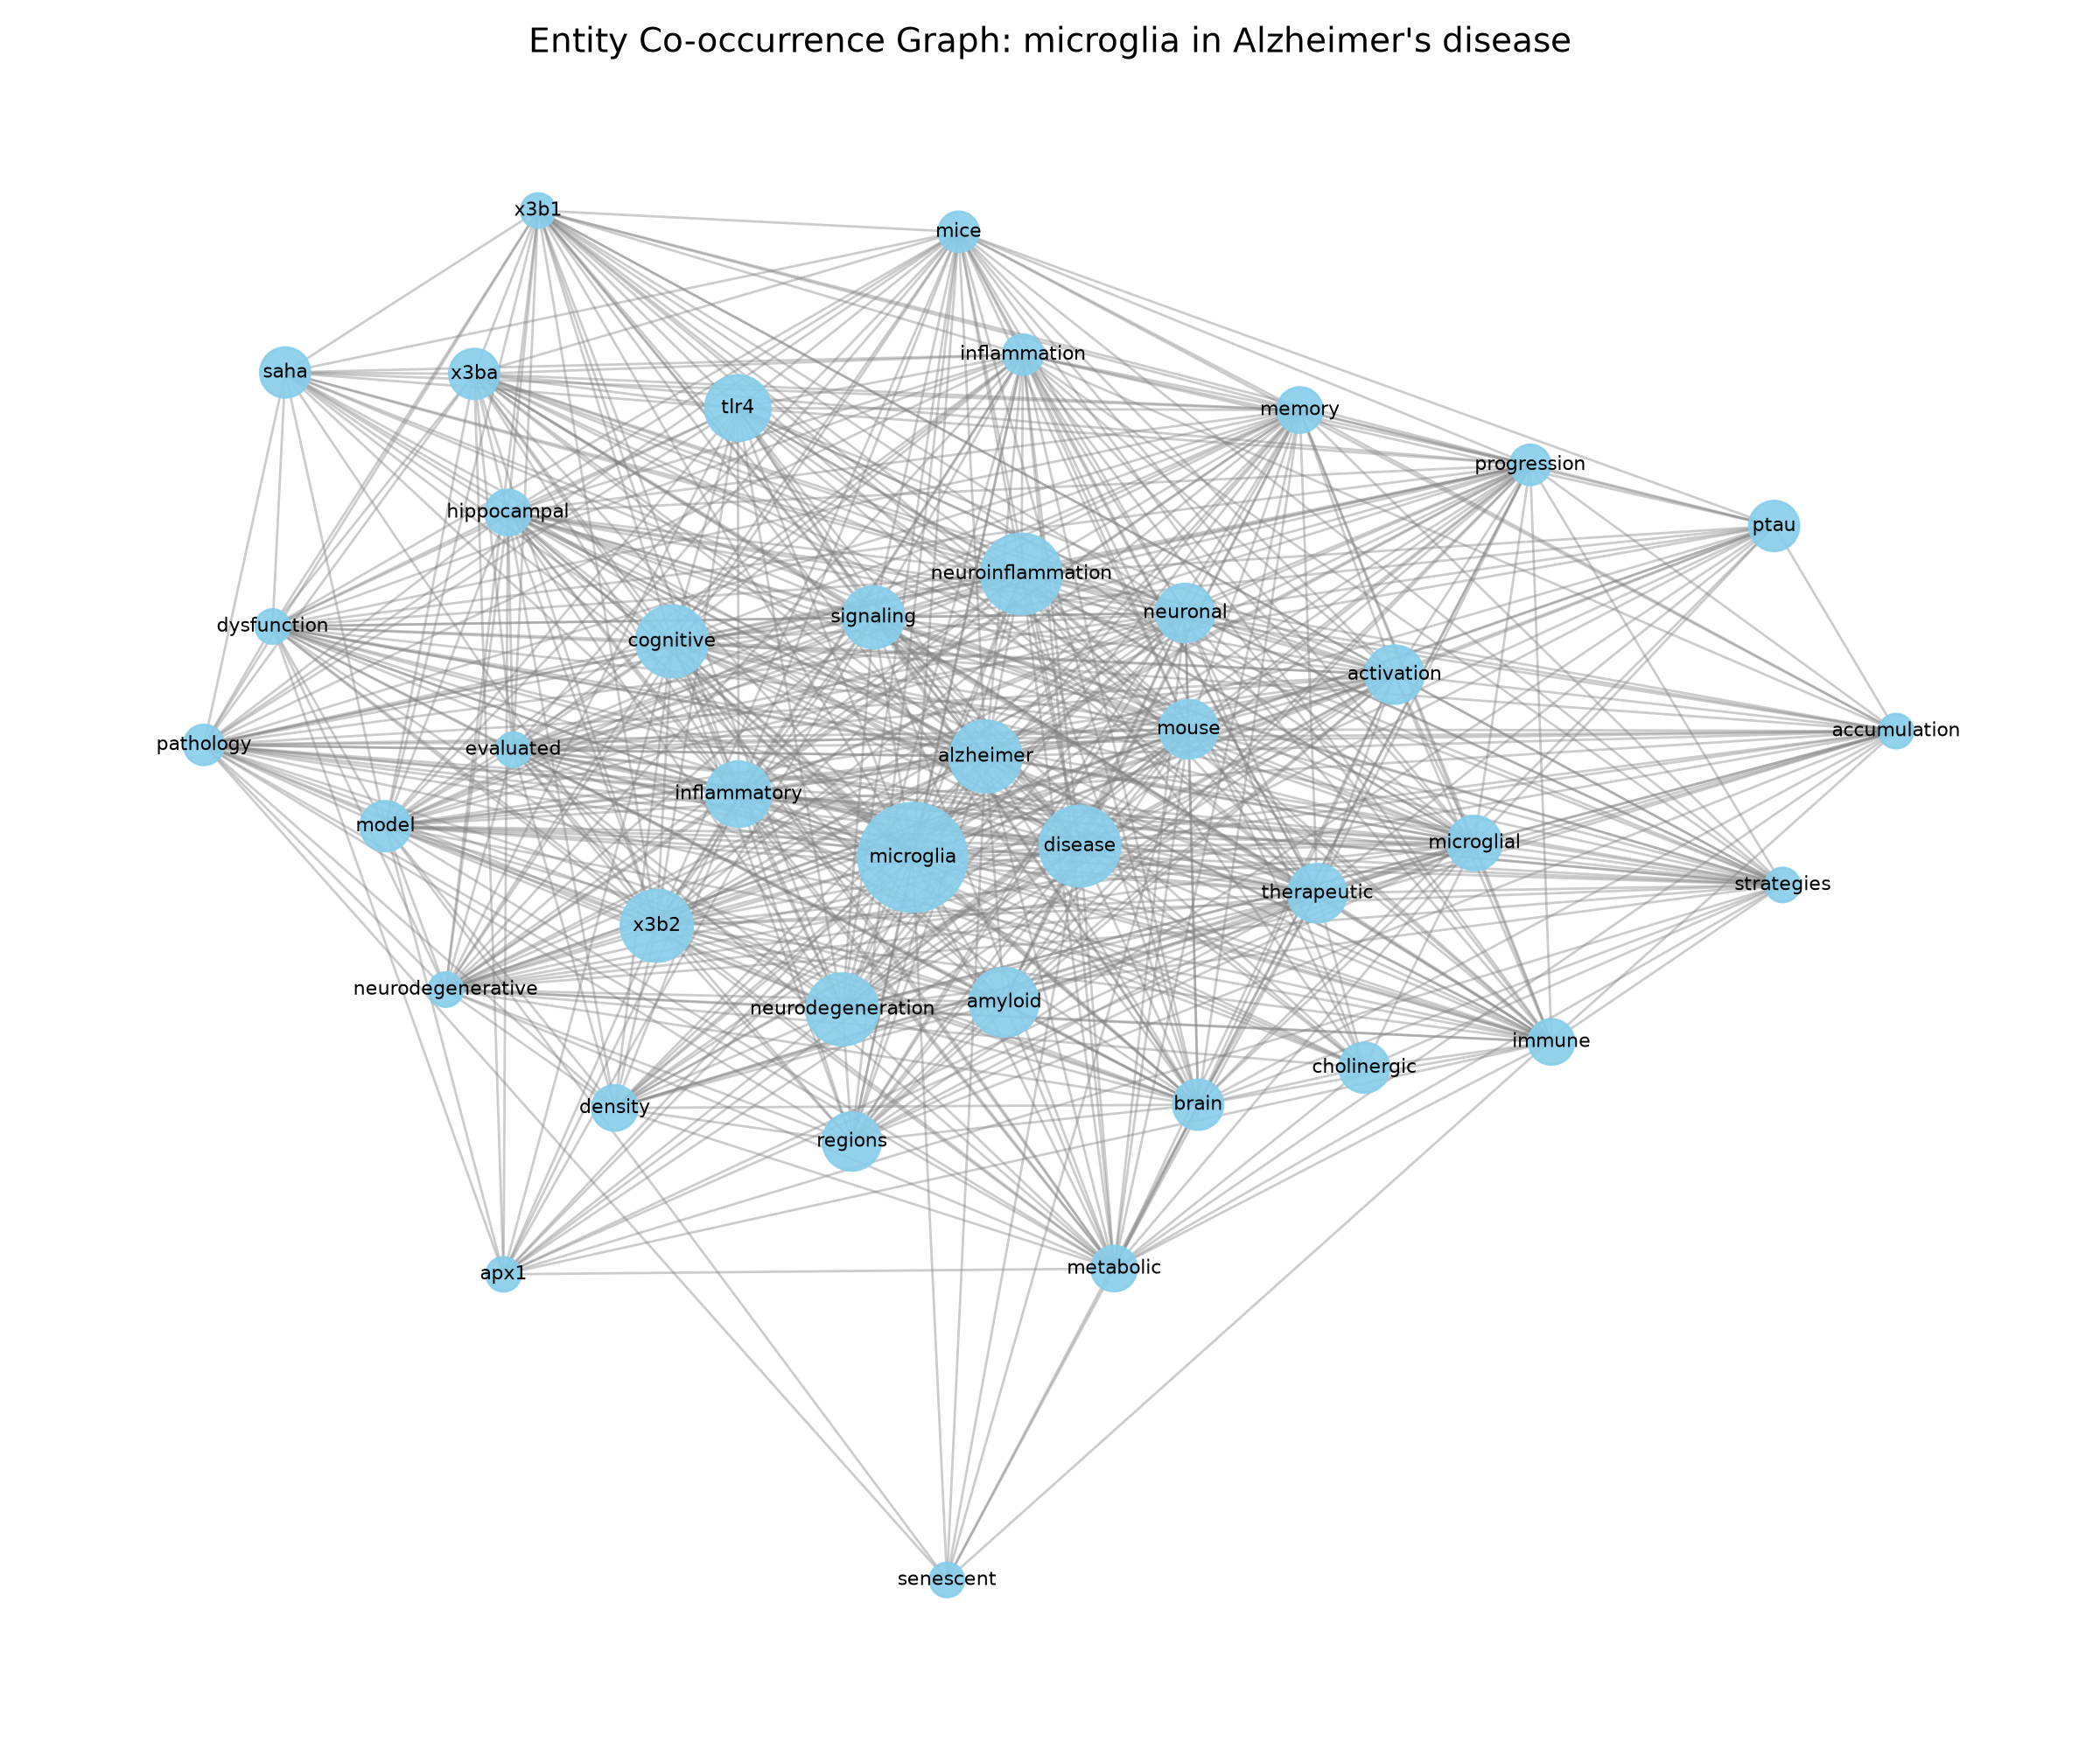
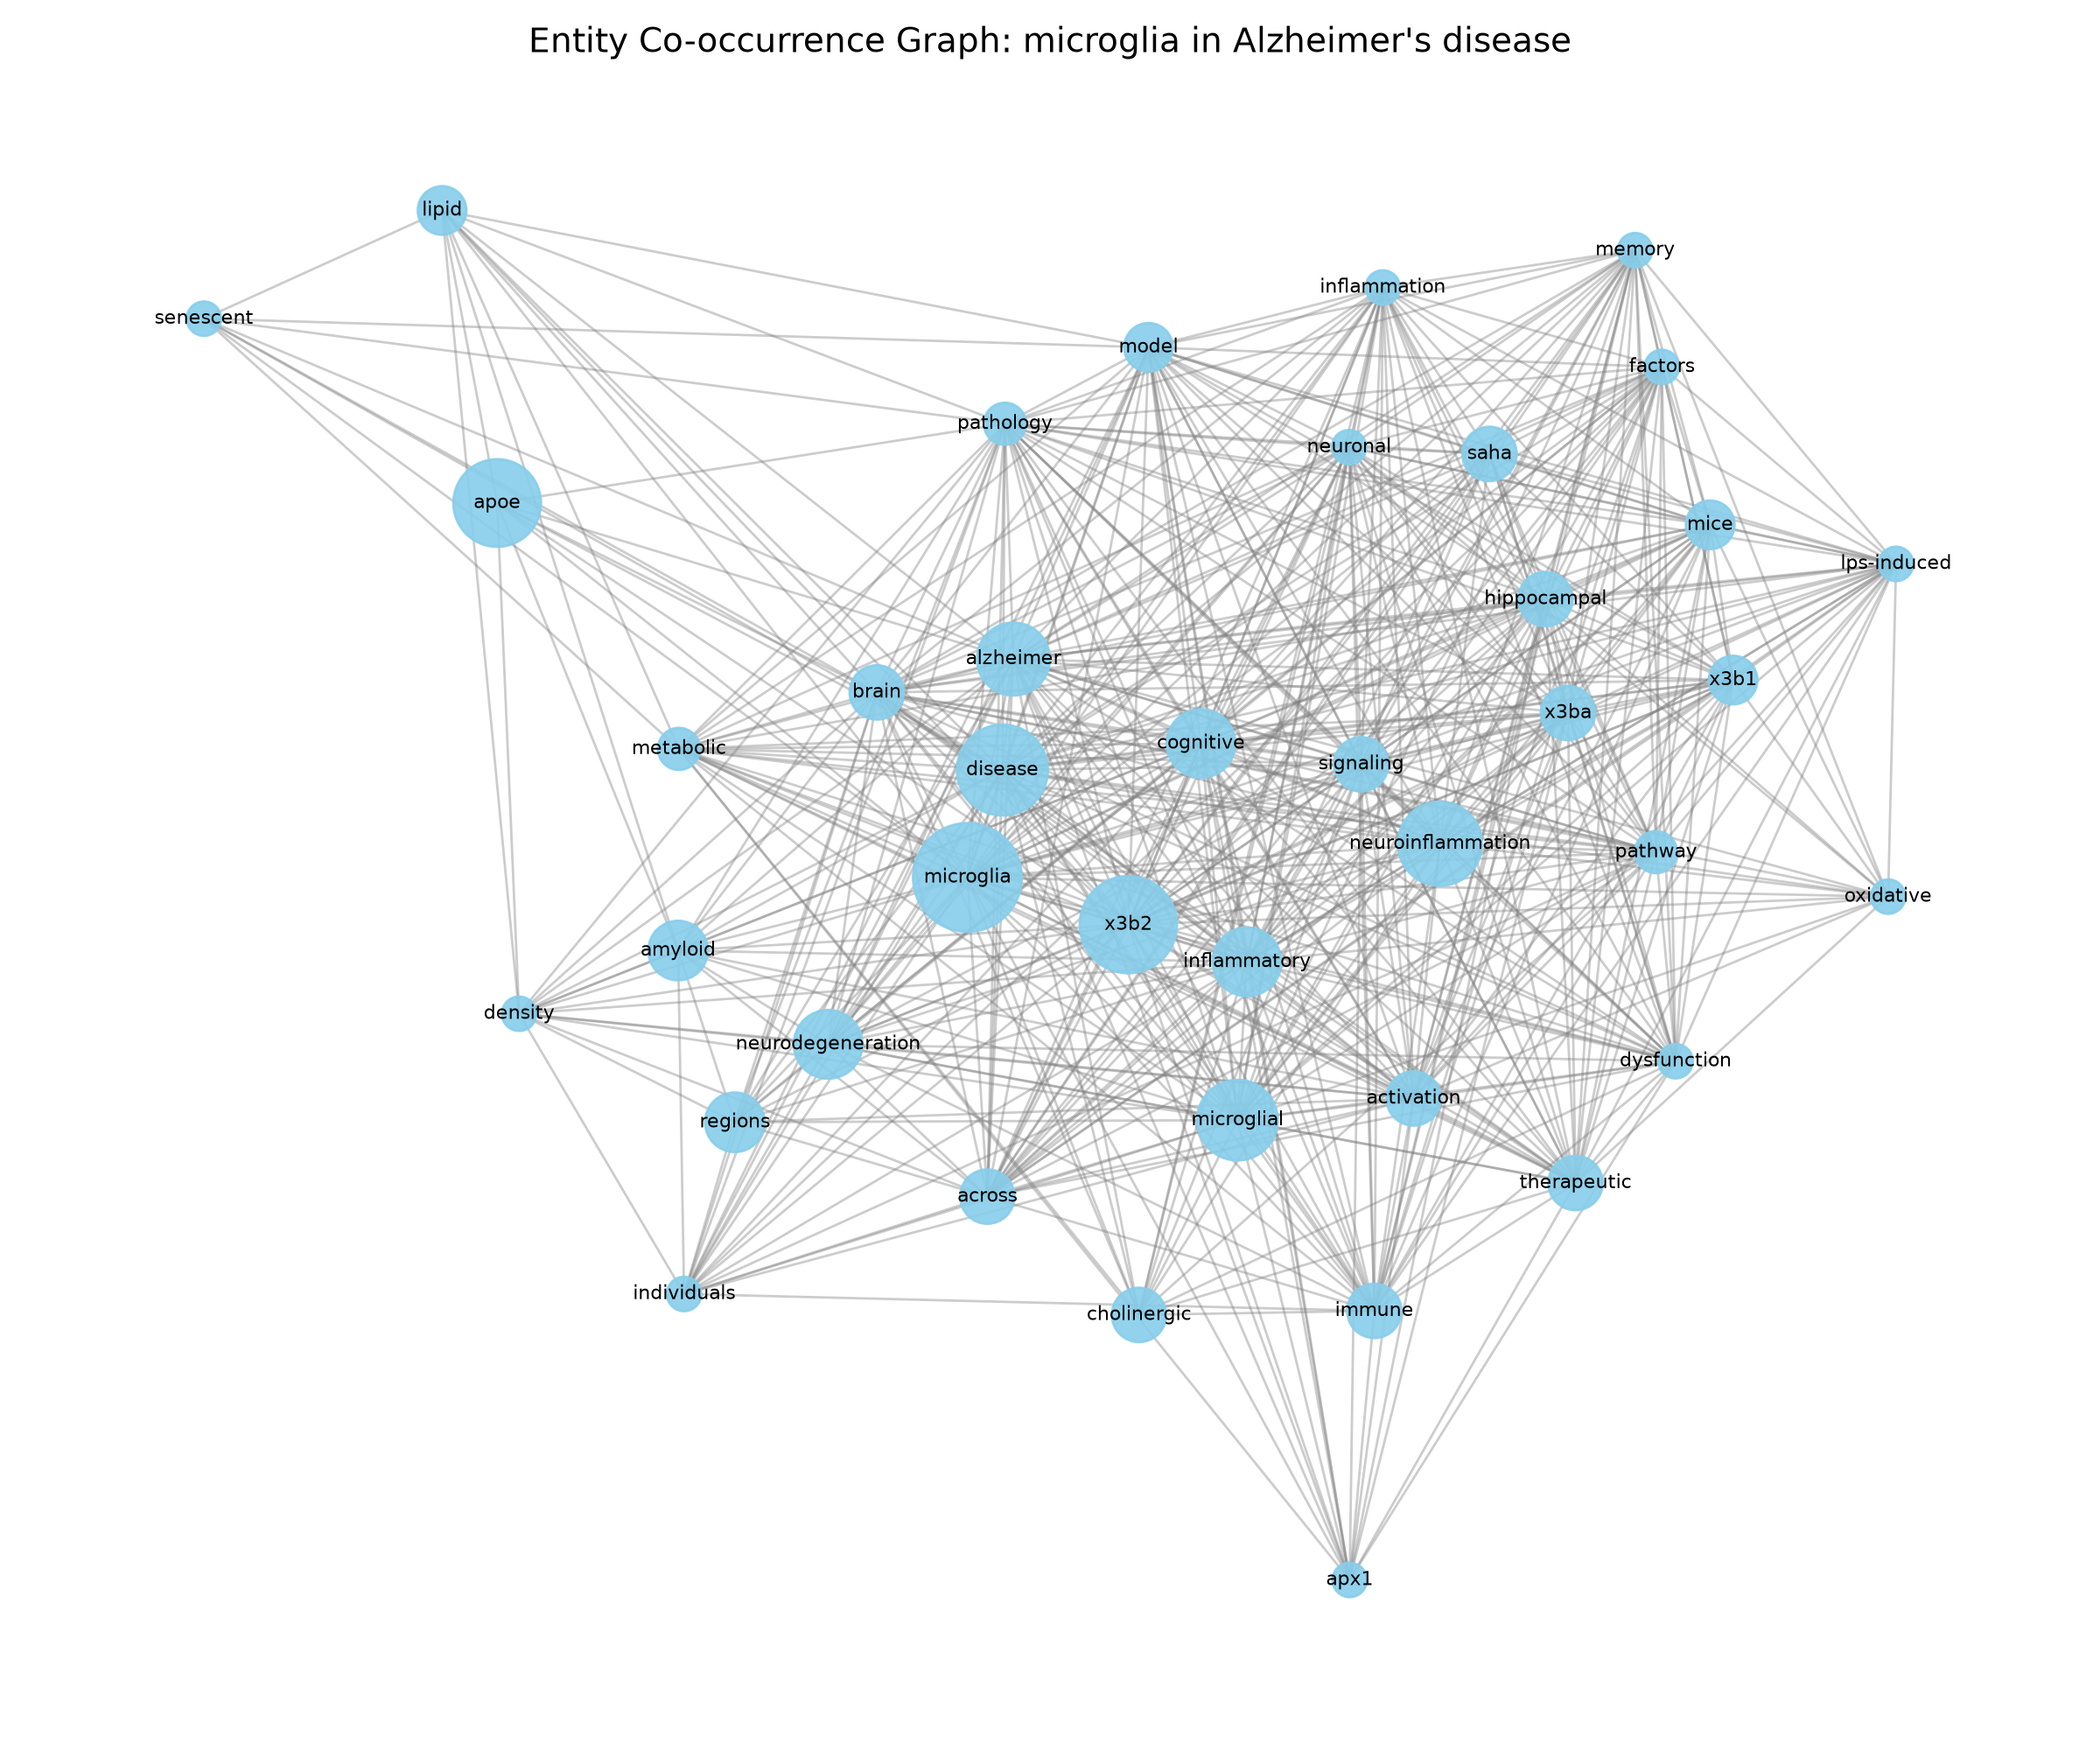
chore(release): v1.1.0 收口 — 版本统一 + 诚实化 RELEASE_NOTES/CHECKLIST
- 版本号全仓统一为 1.1.0（修复 setup.py/pyproject 残留 0.1.0；manifest + 4 证据包 + README 徽章同步）。
- RELEASE_NOTES.md 重写：删除 arXiv 不实声称（paper submitted / link coming）与 4-conceptual roadmap；新增 Agent Router v0、Validation Suite 诚实 B/C 分级、9 skills、FDR/auto-log2；补 1 行 v1.5 诚实路线图。
- RELEASE_CHECKLIST.md：cs.AI(primary)→cs.SE(primary)+q-bio.QM/GN（本账号须 human endorser）；arXiv done-criteria 改为 bioRxiv 优先；tag 行 v1.0→v1.1.0。
- 重跑 4 case 验证 v1.1.0 下确定性可复现（Case1 真实 GEO dopamine min_p=0.000159；Case2/4 sweep 1.00/1.00/1.00；Case3 真实 PubMed grade B）。

Changed region(s): [[0.0625, 0.093, 0.9375, 0.93], [0.4375, 0.775, 0.4688, 0.93]]

diff --git a/bio-research-os/eval/case_study_ad_literature.py b/bio-research-os/eval/case_study_ad_literature.py
@@ -197,7 +197,7 @@ def main():
             "workflow": "literature-analysis",
             "topic": args.topic,
             "date": "2026-07-08",
-            "agent_version": "bioresearch-agent v1.0.0 + case-study-ad-literature",
+            "agent_version": "bioresearch-agent v1.1.0 + case-study-ad-literature",
             "mode": data_mode,
         },
         "provenance": {

diff --git a/bio-research-os/eval/case_study_ad_mr.py b/bio-research-os/eval/case_study_ad_mr.py
@@ -268,7 +268,7 @@ def main():
             "workflow": "causal-inference",
             "exposure": EXPOSURE, "outcome": OUTCOME,
             "date": "2026-07-08",
-            "agent_version": "bioresearch-agent v1.0.0 + case-study-ad-mr",
+            "agent_version": "bioresearch-agent v1.1.0 + case-study-ad-mr",
             "mode": "synthetic GWAS (ground-truth known by construction)",
         },
         "provenance": {

diff --git a/bio-research-os/eval/case_study_mr_exemplar.py b/bio-research-os/eval/case_study_mr_exemplar.py
@@ -220,7 +220,7 @@ def main():
             "exposure": EXPOSURE,
             "outcome": OUTCOME,
             "date": "2026-07-08",
-            "agent_version": "bioresearch-agent v1.0.0 + case-study-mr-exemplar",
+            "agent_version": "bioresearch-agent v1.1.0 + case-study-mr-exemplar",
             "mode": "synthetic GWAS (ground-truth known by construction)",
         },
         "provenance": {

diff --git a/bio-research-os/eval/case_study_pd.py b/bio-research-os/eval/case_study_pd.py
@@ -299,7 +299,7 @@ def main():
             "dataset": f"GEO:{GEO_ID}",
             "platform": PLATFORM,
             "date": "2026-07-08",
-            "agent_version": "bioresearch-agent v1.0.0 + case-study-pd",
+            "agent_version": "bioresearch-agent v1.1.0 + case-study-pd",
             "mode": data_mode,
         },
         "provenance": {

diff --git a/setup.py b/setup.py
@@ -2,7 +2,7 @@ from setuptools import setup, find_packages
 
 setup(
     name="bioresearch-agent",
-    version="0.1.0",
+    version="1.1.0",
     description="An open-source, reproducible workflow framework for structured biomedical research",
     long_description=open("README.md").read(),
     long_description_content_type="text/markdown",

diff --git a/RELEASE_NOTES.md b/RELEASE_NOTES.md
@@ -1,6 +1,6 @@
-## BioResearch Agent v1.0.0
+## BioResearch Agent v1.1.0
 
-**One command. Three workflows. Zero API keys.**
+**One framework. Executable workflows. Zero API keys.**
 
 ```bash
 git clone https://github.com/Alim430/bioresearch-agent.git
@@ -12,28 +12,42 @@ cd bioresearch-agent
 
 ### What is it?
 
-A **runnable, reproducible workflow framework** for biomedical research. Not a text generator. Not a chat wrapper. An actual pipeline that downloads data, runs statistics, and produces figures.
+A **runnable, reproducible workflow framework** for biomedical research. Not a text generator. Not a chat wrapper. An actual pipeline that downloads public data, runs real statistics, and produces figures — wired for AI assistants to invoke through a standardized skill interface.
 
-### Three workflows, all included
+### Workflows, all included
 
 | Workflow | One-liner | What you get |
 |:---|:---|:---|
 | **Literature** | `bioresearch run literature --query "microglia Alzheimer's disease"` | PubMed retrieval → knowledge graph → gap report |
 | **Biomarker** | `bioresearch run biomarker --disease "Parkinson's disease"` | GEO analysis → DEG table → volcano plot |
-| **Causal** | `bioresearch run causal --exposure BMI --outcome "Type 2 Diabetes"` | MR estimation → scatter/funnel plots |
+| **Causal** | `bioresearch run causal --exposure BMI --outcome "Type 2 Diabetes"` | MR estimation (IVW) → scatter/funnel plots |
+| **Case study** | `python bio-research-os/eval/case_study_pd.py` | End-to-end validated case with Evidence Package |
 
-All three run **without an LLM API key**. Public data + synthetic fallbacks.
+All run **without an LLM API key**. Public data + synthetic fallbacks.
 
 ### Why it's different
 
 Most "AI for science" projects generate text summaries. This one **runs the actual analysis**:
 
-- Downloads GEO datasets
-- Runs differential expression (t-test + Bonferroni)
-- Performs Mendelian randomization (IVW)
+- Downloads real GEO datasets (e.g., GSE7621, postmortem substantia nigra)
+- Runs differential expression (t-test + Benjamini–Hochberg FDR)
+- Performs Mendelian randomization (IVW + leave-one-out)
 - Produces publication-quality figures
 
-And it's **fully reproducible**: fixed seeds, CI-tested on Python 3.9–3.12, deterministic outputs.
+And it's **fully reproducible**: fixed seeds, deterministic outputs, and a per-case Evidence Package (provenance + benchmark + honest evidence grade).
+
+### Honest evidence grading
+
+Every validation case carries an evidence grade:
+
+- **B — real public data**: GSE7621 Parkinson's biomarker discovery (real GEO), and the AD literature case (real PubMed queries when reachable).
+- **C — synthetic / offline methodology**: the MR cases use a *real IVW engine* on synthetic GWAS with known ground truth, to validate the computation (not a real etiological claim). Offline literature mode falls back to a built-in corpus. Both clearly flag `next_validation` pointing to real GWAS (IGAP/GLGC) and real bibliographic APIs.
+
+No case claims a result it does not have. See `bio-research-os/eval/README.md`.
+
+### Agent Router v0
+
+A deterministic, rule-based intent classifier (`bioresearch route "<intent>"`) maps free-text research requests to the right workflow — no LLM, no network, fully testable (10/10 unit tests). It *translates intents into executable workflows*; it does not perform autonomous discovery.
 
 ### Install as agent skills (Claude / Cursor / LangChain)
 
@@ -49,29 +63,30 @@ The agent routes it to `bioresearch run literature` and returns structured outpu
 
 ### Architecture
 
-- **6 processing modules** (Question → Retrieval → Analysis → Evidence → Narrative → Execution)
-- **12-stage execution diagram** (8 implemented, 4 conceptual)
-- **3 access layers** (CLI · Python SDK · API Contract / Tool Spec)
-- **3 skill manifests** for agent integration
+- **Reproducible workflow engine** (literature / biomarker / causal-inference / case-study)
+- **Multi-interface access**: CLI · Python SDK · API Contract / Tool Spec · Agent Skills
+- **Validation Suite**: 4 cases with Evidence Packages (`bio-research-os/eval/`)
+- **9 agent skills** in `skills/` (interface wrappers, not reasoning modules)
 
-### Paper
+### Paper & preprint
 
-Accompanying paper submitted to arXiv (cs.SE + q-bio.QM):
+An accompanying methods/software paper is **in preparation** (target: cs.SE primary + q-bio.QM/GN secondary on arXiv; this account requires a human endorser for all archives). Until endorsement is secured, the preprint will be posted to **bioRxiv** (free, DOI, biomedical audience), with JOSS as an alternative peer-reviewed venue. Links will be added here once they actually exist.
 
-> *"BioResearch Agent: A Tool-First Framework for Structured Biomedical Research Workflows"*
+> No paper ID or preprint link is claimed here until it is real.
 
-Paper: [arXiv link coming]
-Code: [github.com/Alim430/bioresearch-agent](https://github.com/Alim430/bioresearch-agent)
+### What's new in v1.1.0 (since v1.0.0)
 
-### What's in this release
+- ✅ Agent Router v0 (rule-based intent → workflow, 10/10 tests)
+- ✅ Validation Suite expanded to 4 cases (PD real GEO, AD MR, AD literature, BMI→T2D MR)
+- ✅ Skill set expanded to 9 active agent skills
+- ✅ Benjamini–Hochberg FDR + auto log2-scale handling for real microarray data
+- ✅ CLI `route` subcommand
+- ✅ CI workflow configured (Python 3.9–3.12)
+- ✅ Determinism (fixed seed-42; Evidence Packages pin provenance)
 
-- ✅ CLI (`bioresearch run` / `bioresearch doctor`)
-- ✅ Python SDK (`Agent.run()`)
-- ✅ 3 reproducible demo workflows
-- ✅ CI green (Python 3.9–3.12)
-- ✅ Determinism check (seed-42 verified)
-- ✅ Agent skill manifests (Claude / Cursor compatible)
-- ✅ Tool spec JSON for LangChain / OpenAI function calling
+### Roadmap (honest, near-term)
+
+- **v1.5 (Phase 1 target):** complete the causal-evidence chain (GWAS → eQTL → TWAS → coloc → MR → fine-mapping), expand to 10 skills, grow the benchmark to ~20 tasks.
 
 ### Get started in 30 seconds
 

diff --git a/.github/RELEASE_CHECKLIST.md b/.github/RELEASE_CHECKLIST.md
@@ -8,7 +8,7 @@
 - [ ] Push `main` branch (commit a0f07b0)
 - [ ] Verify CI badge green
 - [ ] Verify 3 demos run on GitHub Actions
-- [ ] Tag v1.0 release
+- [ ] Tag v1.1.0 release
 - [ ] Copy release notes from docs/RELEASE_NOTES.md
 
 ## Post-Release (T+0 to T+6h)
@@ -32,5 +32,5 @@
 
 ## Done Criteria
 - [ ] GitHub stars > 0 (first star)
-- [ ] arXiv arXiv ID received
+- [ ] Preprint posted (bioRxiv preferred; arXiv after human endorser secured)
 - [ ] CI remains green for 7 days

diff --git a/README.md b/README.md
@@ -15,7 +15,7 @@ CLI · Python SDK · API · Agent Skills
 [![CI](https://github.com/Alim430/bioresearch-agent/actions/workflows/ci.yml/badge.svg)](https://github.com/Alim430/bioresearch-agent/actions/workflows/ci.yml)
 [![Python 3.9+](https://img.shields.io/badge/python-3.9+-blue.svg)](https://www.python.org/downloads/)
 [![License: MIT](https://img.shields.io/badge/License-MIT-yellow.svg)](https://opensource.org/licenses/MIT)
-[![v1.0.0](https://img.shields.io/badge/release-v1.0.0-green.svg)](https://github.com/Alim430/bioresearch-agent/releases/tag/v1.0.0)
+[![v1.1.0](https://img.shields.io/badge/release-v1.1.0-green.svg)](https://github.com/Alim430/bioresearch-agent/releases/tag/v1.1.0)
 
 ---
 
@@ -382,7 +382,7 @@ bioresearch-agent/
 ├── assets/               # documentation figures
 ├── README.md
 ├── CITATION.cff          # cite this repository
-├── RELEASE_NOTES.md      # v1.0.0 release notes
+├── RELEASE_NOTES.md      # v1.1.0 release notes
 ├── pyproject.toml
 └── Makefile
 ```

diff --git a/docs/case-study/AD_lit_outline.md b/docs/case-study/AD_lit_outline.md
@@ -28,6 +28,7 @@
 - Limited very recent (2023+) studies; emerging mechanisms may be underexplored.
 - Sparse single-cell resolution data; cellular heterogeneity may be overlooked.
 - Epigenetic regulation in microglia during disease progression is understudied.
+- Sex-specific microglial responses are rarely addressed; precision medicine potential untapped.
 
 ## 5. Future Directions
 - Prioritize single-cell and spatial transcriptomics to resolve microglial heterogeneity.